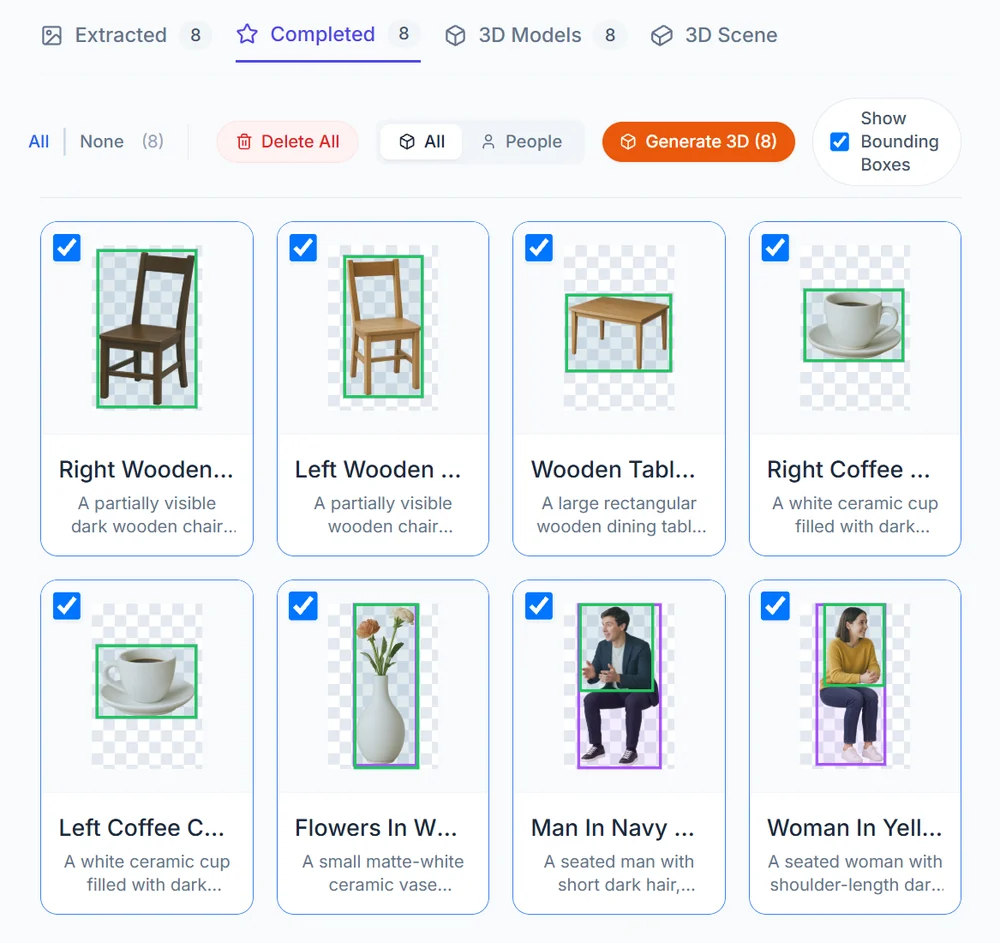
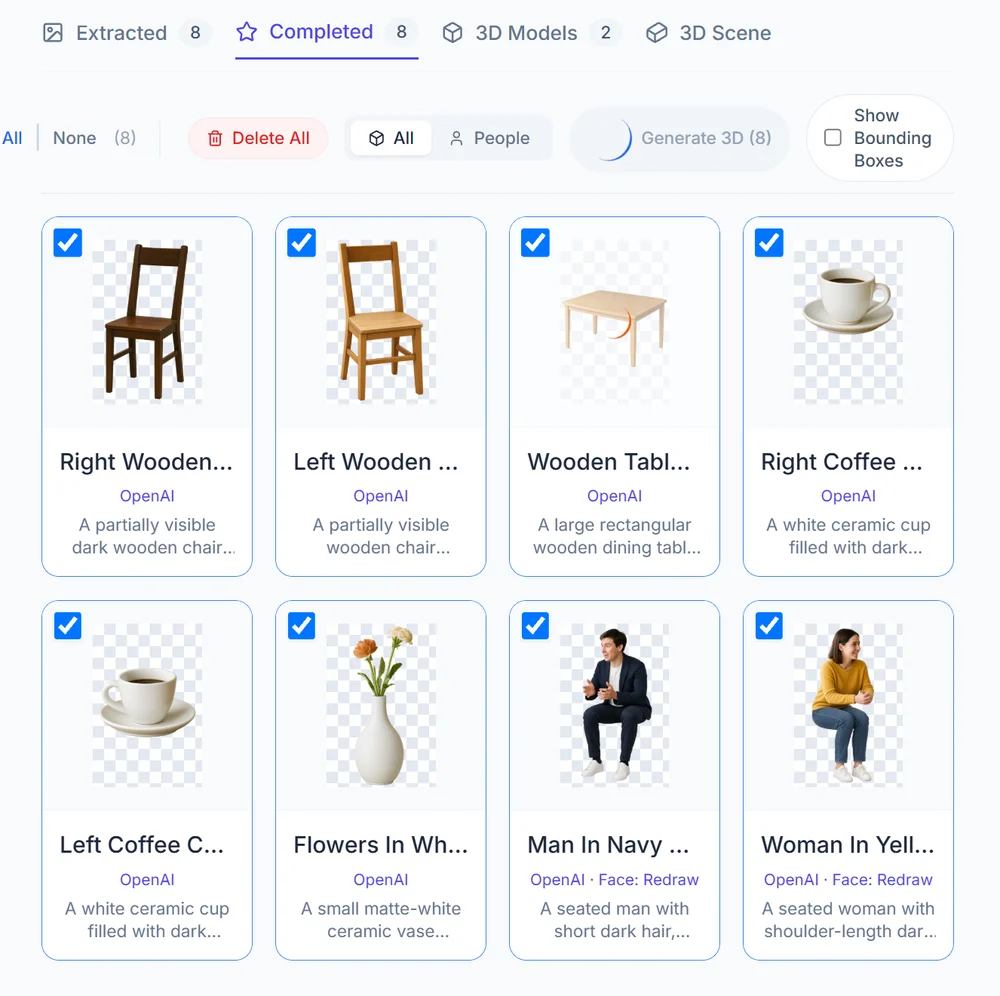
README: replace walkthrough images with the latest results
Claude-Session: https://claude.ai/code/session_017F2L64VSaLMVjz2Lii7x6Z

diff --git a/README.md b/README.md
@@ -36,7 +36,7 @@ The sample photo [`samples/two-people-at-table.webp`](samples/two-people-at-tabl
 
 ### Walkthrough (sample photo)
 
-Results with OpenAI (detection and completion) and TRELLIS.2 (3D generation). The scene uses perspective placement (far/near ratio 1.5) and orientation estimation.
+Results with OpenAI (detection and completion) and TRELLIS.2 (3D generation). People were completed with the **Redraw** face style. The scene uses perspective placement (far/near ratio 1.5) and shows the people, vase and cups (the partly visible chairs and table are hidden; see the roadmap).
 
 <table>
   <tr>
@@ -44,12 +44,12 @@ Results with OpenAI (detection and completion) and TRELLIS.2 (3D generation). Th
     <td width="50%"><img src="docs/images/step2-extracted.webp" alt="Extracted objects"><br><sub><b>2. Cropping</b> — each object cut out of the photo</sub></td>
   </tr>
   <tr>
-    <td width="50%"><img src="docs/images/step3-completed.webp" alt="Completed objects"><br><sub><b>3. Completion</b> — hidden parts generated with a transparent background (OpenAI); the green box marks the part visible in the photo</sub></td>
+    <td width="50%"><img src="docs/images/step3-completed.webp" alt="Completed objects"><br><sub><b>3. Completion</b> — hidden parts generated with a transparent background (OpenAI); each card shows the provider and, for people, the face style</sub></td>
     <td width="50%"><img src="docs/images/step4-3d-models.webp" alt="3D models"><br><sub><b>6. 3D generation</b> — one textured 3D model per object (TRELLIS.2)</sub></td>
   </tr>
   <tr>
     <td width="50%"><img src="docs/images/step5-depth-map.webp" alt="Depth map"><br><sub><b>5. Depth estimation</b> — Depth Anything V2 (brighter = nearer)</sub></td>
-    <td width="50%"><img src="docs/images/scene-result.webp" alt="3D scene"><br><sub><b>7–8. Scene composition and orientation</b> — people, vase and cups placed with perspective at the depth of their PC Boxes and rotated by their estimated orientation (the face-to-face pose of the two people is recovered)</sub></td>
+    <td width="50%"><img src="docs/images/scene-result.webp" alt="3D scene"><br><sub><b>7. Scene composition</b> — people, vase and cups placed with perspective at the depth of their PC Boxes</sub></td>
   </tr>
 </table>
 
